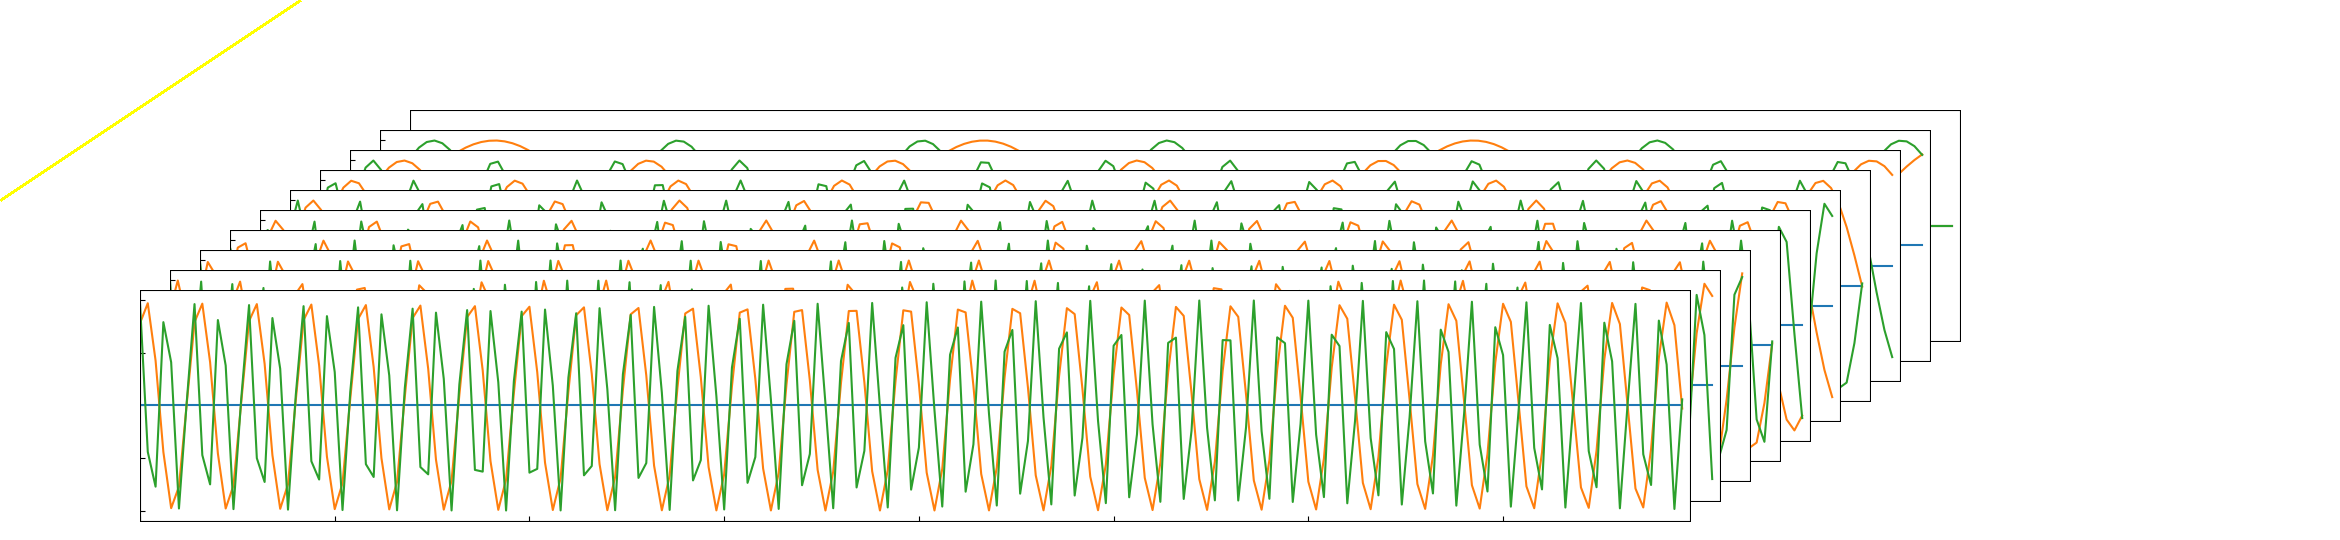
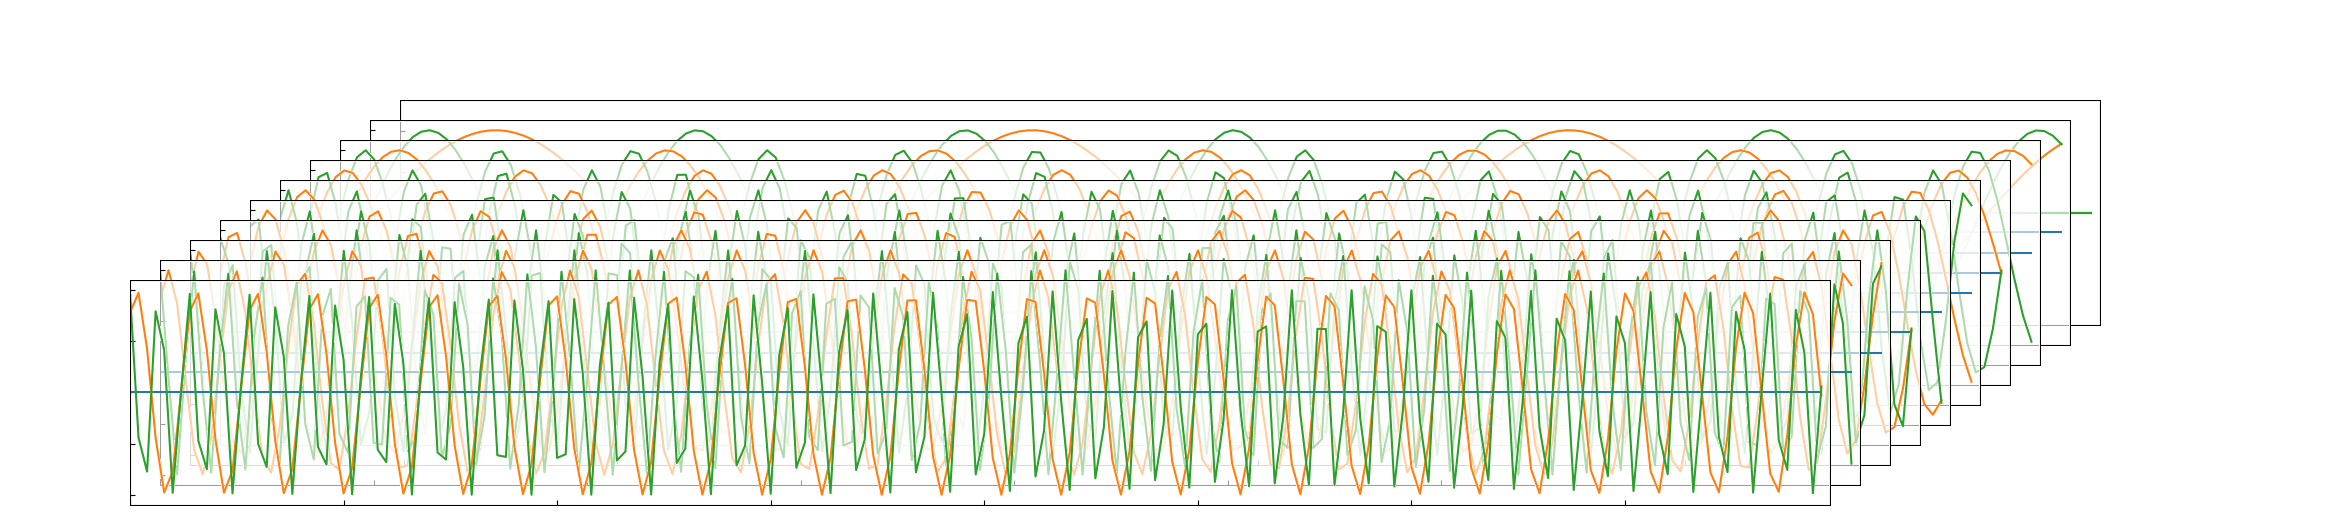
r

Changed region(s): [[0.0312, 0.1846, 0.9047, 0.9846]]

diff --git a/src/main.py b/src/main.py
@@ -1,8 +1,4 @@
-import hydra
 import numpy as np
-import omegaconf
-import wandb
-from configs import Config
 from tensor_plot import TensorPlot
 
 
@@ -10,13 +6,12 @@ def sin_func(t: np.ndarray, omega: float):
     return np.sin(omega * t)
 
 
-@hydra.main(version_base=None, config_path="configs/", config_name="default")
-def main(cfg: Config):
+def main():
     times = np.arange(1, 200)
     tensors = np.array([[sin_func(times, 0.1 * i * j) for j in range(10)] for i in range(3)])
-    print("tensors=", tensors.shape)
     tensors = tensors.transpose(2, 1, 0)
     plot = TensorPlot()
+    plot.set_alpha(200)
     plot.plot_tensor(tensors, "outputs/test.png")
 
 
